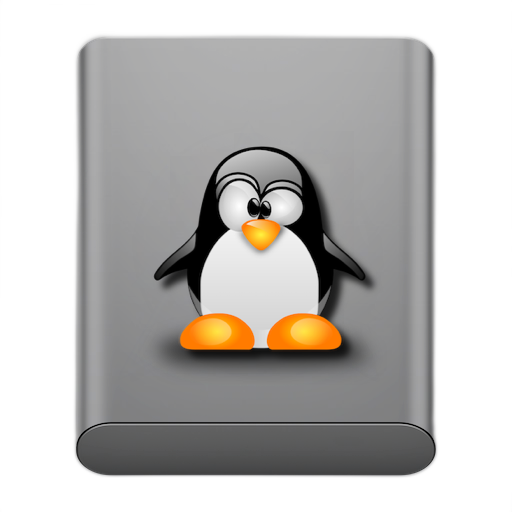
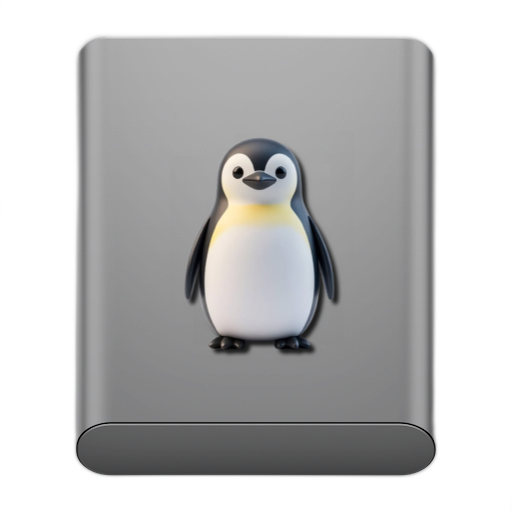
Changing Linux

Changed region(s): [[0.2812, 0.25, 0.75, 0.75]]

diff --git a/README.md b/README.md
@@ -8,7 +8,7 @@
 
 ### Original macOS Tahoe Grey Disk ⬇ View All ➥ [Grey Disk IconSet 512px](https://github.com/chris1111/Linux-Tahoe-Style-Disk/blob/main/View-GreySet.md)
 
-<img src="Grey_Disk/Kubuntu.png" alt="Github Project" style="width:25%;"><img src="Grey_Disk/Manjaro.png" alt="Github Project" style="width:25%;"><img src="Grey_Disk/Ubuntu_Studio.png" alt="Github Project" style="width:25%;"><img src="Grey_Disk/Black_Arch.png" alt="Github Project" style="width:25%;">
+<img src="Grey_Disk/Kubuntu.png" alt="Github Project" style="width:25%;"><img src="Grey_Disk/Linux.png" alt="Github Project" style="width:25%;"><img src="Grey_Disk/Ubuntu_Studio.png" alt="Github Project" style="width:25%;"><img src="Grey_Disk/Black_Arch.png" alt="Github Project" style="width:25%;">
 
 Downloads: Release ➤ [Linux Tahoe Style Disk](https://github.com/chris1111/Linux-Tahoe-Style-Disk/releases/download/V1/Linux_Icons-512px.zip)
 
